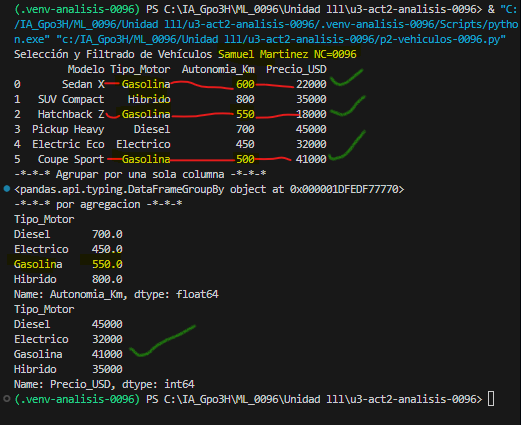
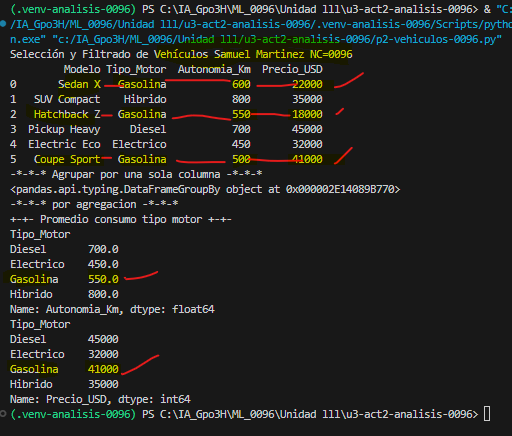
Add files via upload

diff --git a/p2-vehiculos-0096.py b/p2-vehiculos-0096.py
@@ -1,6 +1,7 @@
 # Importar librerias
 import pandas as pd
 import numpy as np
+# Samuel Martinez NC 0096
 print("Selección y Filtrado de Vehículos Samuel Martinez NC=0096")
 vehiculos = {
     "Modelo": ["Sedan X", "SUV Compact", "Hatchback Z", "Pickup Heavy", "Electric Eco", "Coupe Sport"],
@@ -14,10 +15,22 @@ print(df)
 print("-*-*-* Agrupar por una sola columna -*-*-*")
 agrupado = df.groupby('Tipo_Motor')
 print(agrupado)
-
 print("-*-*-* por agregacion -*-*-*")
+print("+-+- Promedio consumo tipo motor +-+-")
 # Tipo motor de cada carro
 print(agrupado['Autonomia_Km'].mean())
-
 # Precio de cada carro USD
 print(agrupado['Precio_USD'].max())
+
+print("+-SAMUEL+-+-SEGUNDA PARTE+-+NC0096-+-")
+print("Agregaciones multiples")
+print("mean --> promedio, sum --> suma")
+print("max --> maximo, min --> minimo")
+resultado_agregado = agrupado["Autonomia_Km"].agg(['mean', 'sum', 'max', 'min'])
+print(resultado_agregado)
+print("Agrupacion por varias columnas")
+print("Agrega columna al DataFrame")
+print("Columna Team --> Equipo")
+df['Equipo'] = ['A','B','A','B','A','B']
+agrupado_multiple = df.groupby(['Tipo_Motor', 'Equipo'])['Precio_USD'].mean()
+print(agrupado_multiple)

diff --git a/p2-analisis-0096.py b/p2-analisis-0096.py
@@ -1,0 +1,22 @@
+# Importar librerias
+import pandas as pd
+import numpy as np
+
+print("Analisis de datos Alumnos Samuel Martinez NC=0096")
+alumnos={ "Nombre": ["Alicia", "Pedro", "Carlos", "David", "Eva", "Frank"],
+"Especialidad": ["Inteligencia", "Electrónica", "Mecánica", "Gericultura", "Laboratorista", "Rebotica"],
+"Calificacion": [90, 60, 50, 80, 40, 100],
+"Edad": [14, 15, 13, 16, 18, 17]} 
+
+df= pd.DataFrame(alumnos)
+print(df)
+print("-*-*-* Agrupar por una sola columna -*-*-*")
+agrupado = df.groupby("Especialidad")
+print(agrupado)
+
+print("-*-*-* por agregacion -*-*-*")
+# Calificacion promedio por especialidad
+print(agrupado['Calificacion'].mean())
+
+# Edad maxima de cada especialidad
+print(agrupado['Edad'].max())

diff --git a/leeme_2daparte.md b/leeme_2daparte.md
@@ -1,0 +1,3 @@
+## Resultado Samuel Martinez 2da parte 
+## NC 0096
+![alt text](image-2.png)
